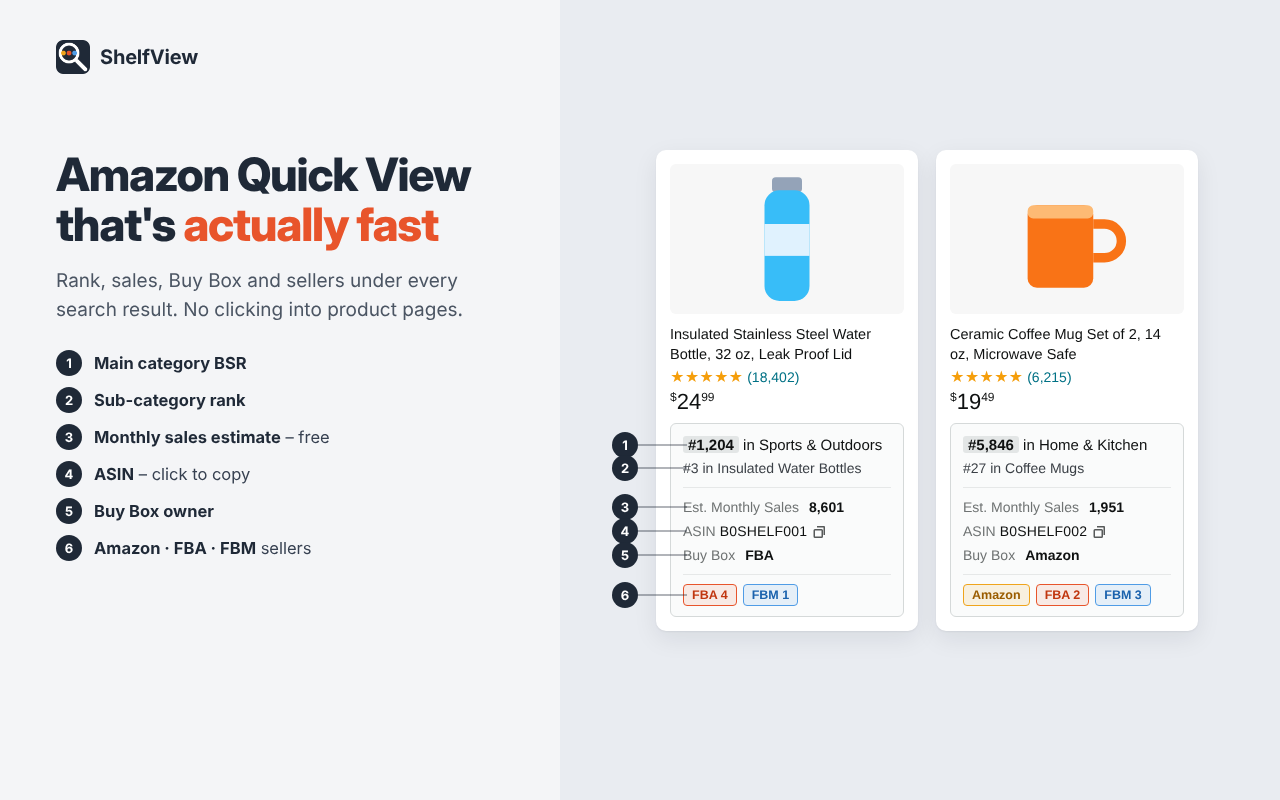
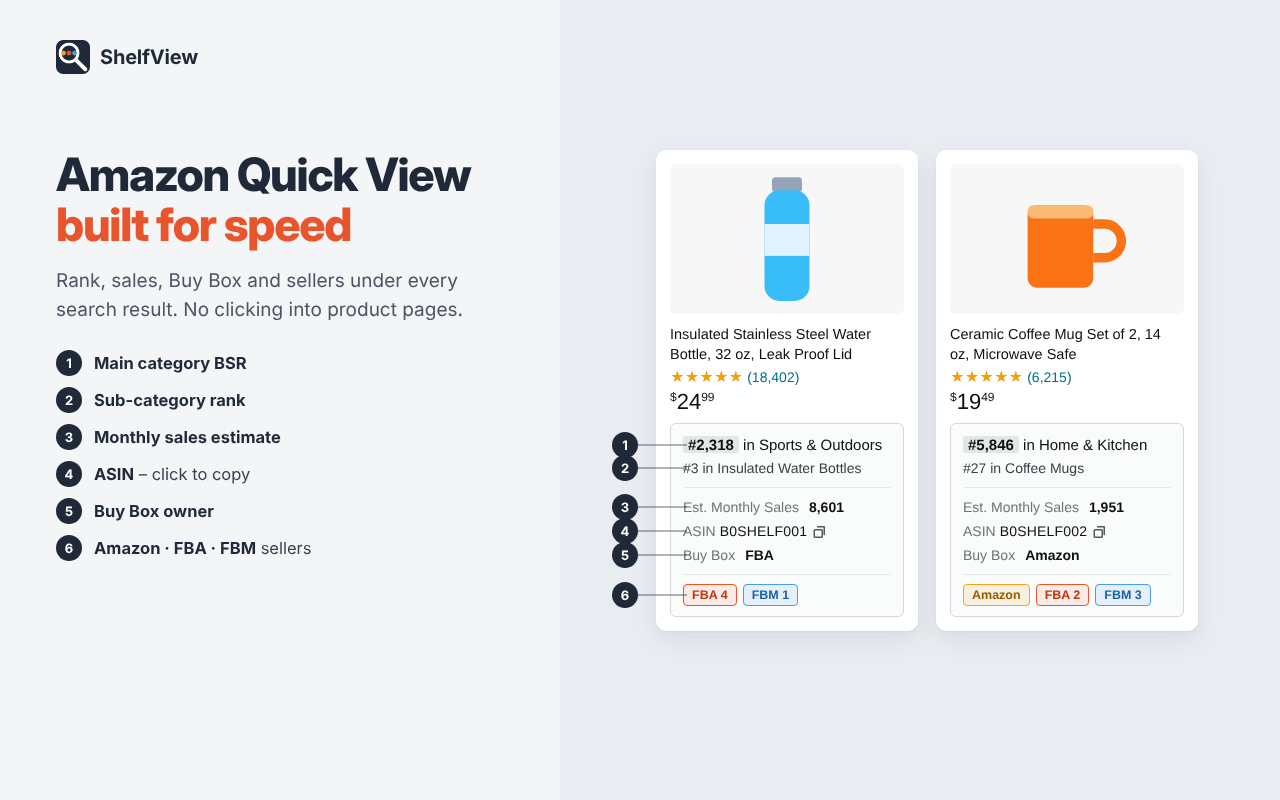
Update website wording and screenshot

Changed region(s): [[0.0312, 0.25, 0.3438, 0.3125], [0.5625, 0.5312, 0.5938, 0.5625], [0.2188, 0.5312, 0.25, 0.5625]]

diff --git a/docs/index.html b/docs/index.html
@@ -3,8 +3,8 @@
 <head>
   <meta charset="utf-8">
   <meta name="viewport" content="width=device-width, initial-scale=1">
-  <title>ShelfView – Fast Amazon Quick View with Free Sales Estimates</title>
-  <meta name="description" content="Fast Amazon quick view with free monthly sales estimates, BSR, Buy Box, FBA & FBM seller counts and ASIN on search pages. No login.">
+  <title>ShelfView – Fast Amazon Quick View with Monthly Sales Estimates</title>
+  <meta name="description" content="Fast Amazon quick view with monthly sales estimates, BSR, Buy Box, FBA & FBM seller counts and ASIN on search pages. No login.">
   <link rel="icon" href="logo.png">
   <style>
     :root { --navy: #1f2937; --muted: #4b5563; --line: #e5e7eb; --accent: #e8542b; }
@@ -37,16 +37,16 @@
     </header>
 
     <section class="hero">
-      <h1>Amazon Quick View that's <em>actually fast</em></h1>
-      <p class="lead">Best Sellers Rank, free monthly sales estimates, Buy Box owner and FBA &amp; FBM sellers under every Amazon search result. No login, no clicking into product pages.</p>
-      <a class="btn" href="https://chromewebstore.google.com/detail/YOUR-EXTENSION-ID">Add to Chrome – it's free</a>
+      <h1>Amazon Quick View <em>built for speed</em></h1>
+      <p class="lead">Best Sellers Rank, monthly sales estimates, Buy Box owner and FBA &amp; FBM sellers under every Amazon search result. No login, no clicking into product pages.</p>
+      <a class="btn" href="https://chromewebstore.google.com/detail/YOUR-EXTENSION-ID">Add to Chrome</a>
       <img class="shot" src="screenshot.png" alt="ShelfView boxes under Amazon search results">
     </section>
 
     <section id="features">
       <h2>What you get</h2>
       <div class="grid">
-        <div class="card"><h3>Free monthly sales</h3><p>Amazon's own "bought in past month" figure, checked against Best Sellers Rank. No account, no trial.</p></div>
+        <div class="card"><h3>Monthly sales estimates</h3><p>Amazon's own "bought in past month" figure, checked against Best Sellers Rank. No account, no trial.</p></div>
         <div class="card"><h3>Built for speed</h3><p>Starts loading as the page opens, products on screen first, with a 12-hour cache.</p></div>
         <div class="card"><h3>BSR and sub-category</h3><p>Main category rank and sub-category rank, each can be shown or hidden.</p></div>
         <div class="card"><h3>Buy Box and sellers</h3><p>Buy Box owner and Amazon, FBA and FBM seller counts – new offers only, each seller counted once.</p></div>
